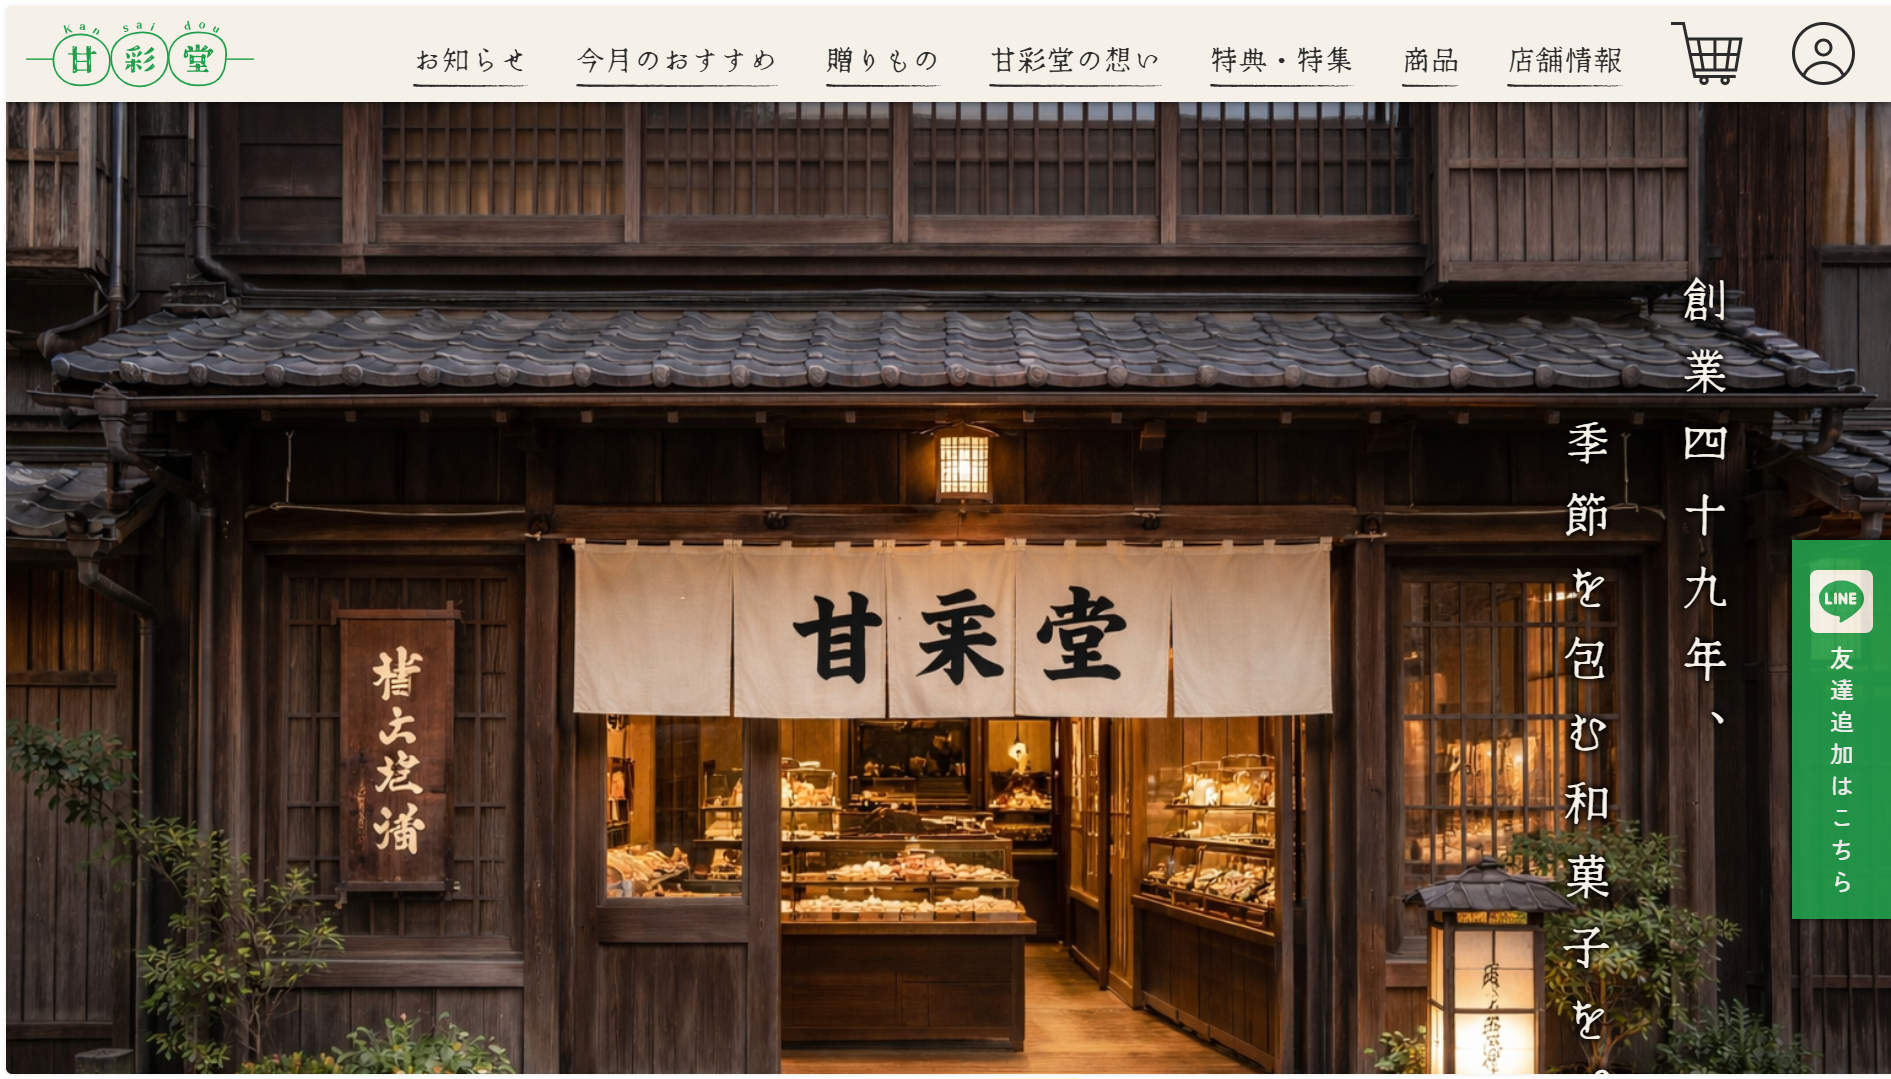
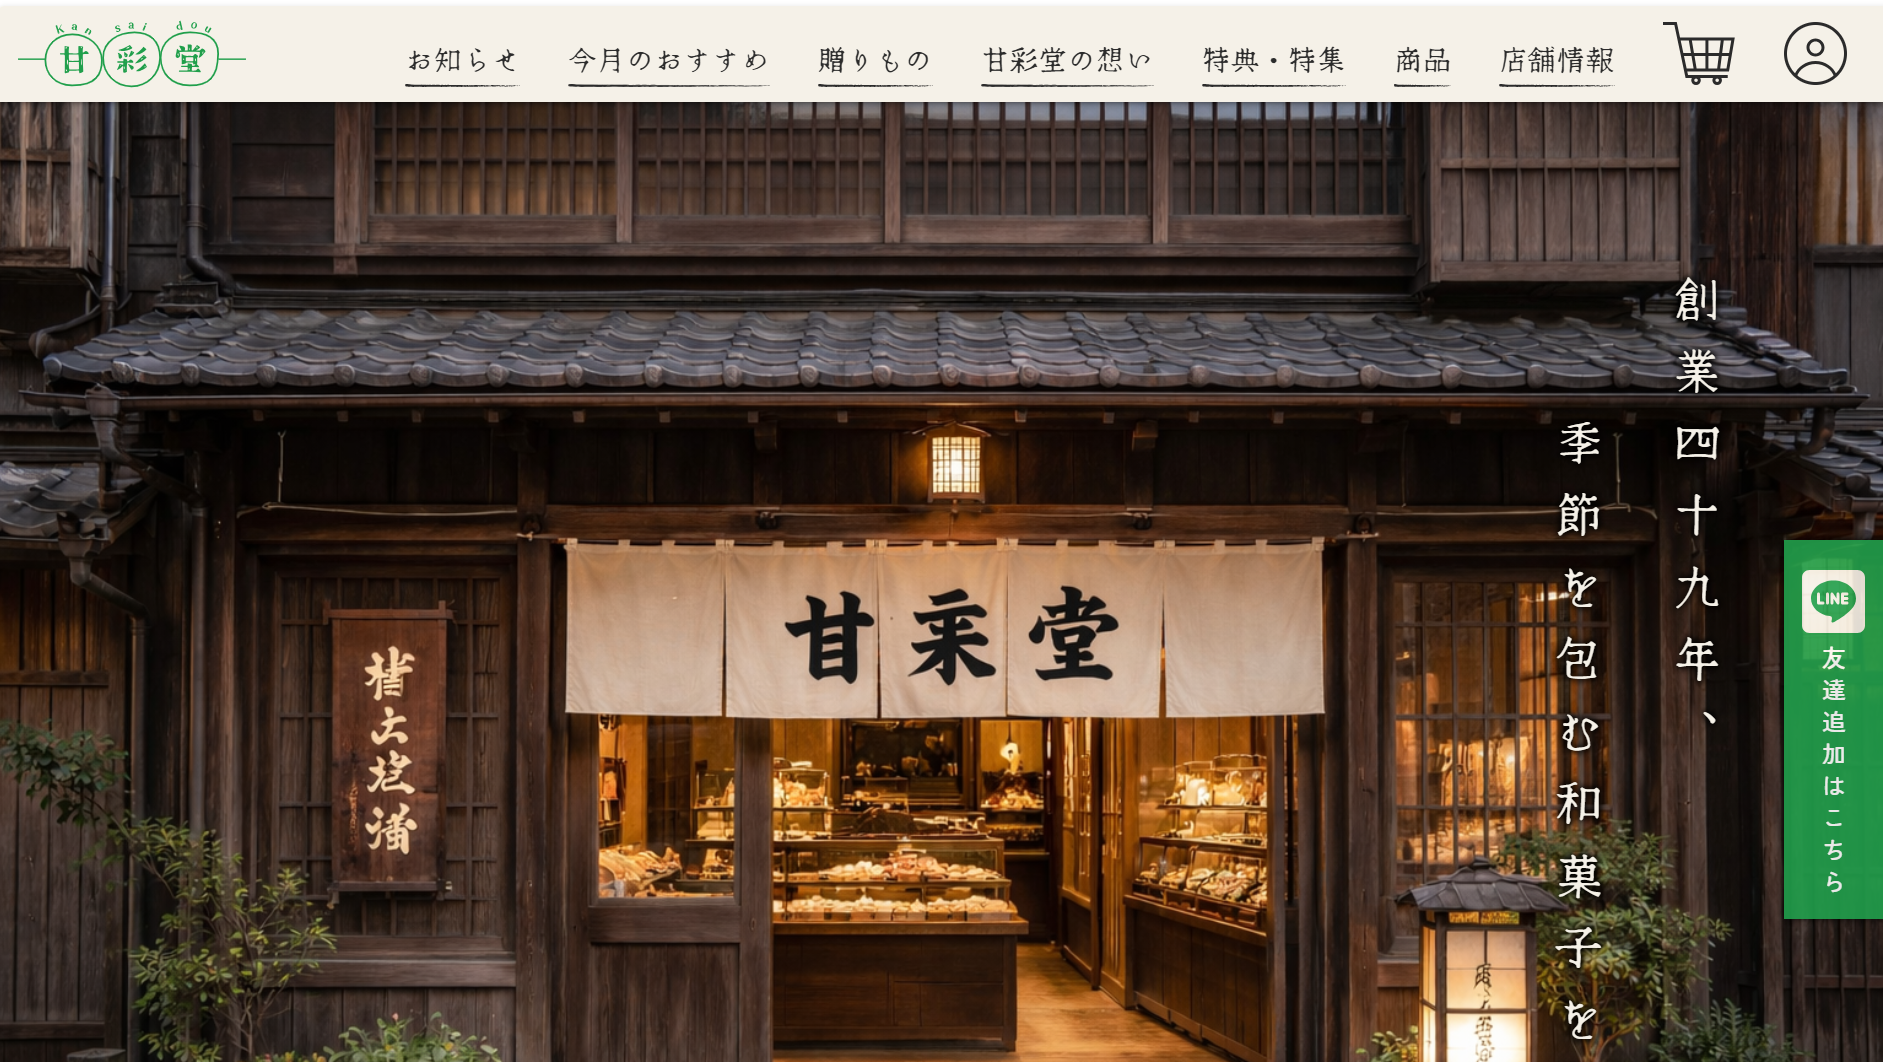
Add work-overview

diff --git a/work-kansaido.html b/work-kansaido.html
@@ -1,0 +1,85 @@
+<!DOCTYPE html>
+<html lang="ja">
+    <head>
+        <meta charset="UTF-8">
+        <meta name="viewport" content="width=device-width, initial-scale=1.0">
+        <title>甘彩堂 | Sasakawa Shun's Portfolio</title>
+        <link rel="stylesheet" href="css/style.css">
+        <link rel="stylesheet" href="css/work-detail.css">
+        <script src="js/main.js"></script>
+        <meta name="description" content="架空の和菓子屋「甘彩堂」のブランドサイト兼ECサイト制作についてまとめた作品詳細ページです。課題設定、デザインの工夫、実装内容、制作を通して学んだことを掲載しています。">
+    </head>
+    <body>
+        <header class="header"><a href="index.html"><span class="header__title">Sasakawa Shun's Portfolio</span></a></header>
+        <main>
+            <section class="hero background--change work-detail-hero" id="hero">
+                <div class="hero__inner">
+                    <div class="hero__body work-detail-hero__body">
+                        <!-- <a class="hero__top--button" href="index.html">
+                            <div class="top--button__inner">
+                                <span class="top--button__text">Top</span>
+                                <img src="images/Arrow 1.svg" alt="">
+                            </div>
+                        </a> -->
+                        <div class="hero__sentence work-detail-hero__sentence">
+                            <h1 class="hero__title work-detail-hero__title">甘彩堂</h1>
+                            <p class="hero__text">石川県金沢市にある架空の和菓子屋を想定した、<br>
+                                ブランドサイト兼ECサイトです。<br>
+                                和菓子屋らしい落ち着きや親しみやすさを大切にしながら、<br>
+                                商品の魅力や店舗の想いが伝わるサイトを目指して制作しました。
+                            </p>
+                            <div class="work-card__tags">
+                                <span class="work-card__tag tag--html">HTML</span>
+                                <span class="work-card__tag tag--css">CSS</span>
+                                <span class="work-card__tag tag--js">JavaScript</span>
+                                <span class="work-card__tag tag--figma">Figma</span>
+                            </div>
+                            <div class="hero__buttons work-detail-hero__buttons">
+                                <a class="button button--reverse work-detail-hero__button" href="https://shun299.github.io/kansaido/" target="_blank" rel="noopener noreferrer">作品のサイトへ</a>
+                                <a class="button button--reverse work-detail-hero__button" href="https://github.com/Shun299/kansaido" target="_blank" rel="noopener noreferrer">GitHubを見る</a>
+                            </div>
+                        </div>
+                        <div class="hero__image work-detail-hero__image"><img src="images/kansaidou.png" alt="甘彩堂のスクリーンショット"></div>
+                    </div>
+                </div>
+            </section>
+            <section class="work-detail work-overview">
+                <div class="section-heading work-detail__section-heading">
+                    <h1 class="work-detail__section-heading--title">課題</h1>
+                    <p>観光地に店舗を構える老舗和菓子屋として、店舗の魅力をオンラインでも伝え、<br>
+                        安定した購入につなげるための課題を整理しました。
+                    </p>
+                </div>
+                <div class="work-overview__inner">
+                    <div class="work-overview__card">
+                        <div class="work-overview__card--icon"><img src="images/earn.svg"></div>
+                        <div class="work-overview__card--description">
+                            <h2 class="work-overview__card--title">観光客に売上が左右されやすい</h2>
+                            <p class="work-overview__card--text">金沢の観光地にある店舗として、来店数が観光シーズンに左右されやすく、<br>
+                                冬場などの閑散期には売上が不安定になる課題を設定しました。
+                            </p>
+                        </div>
+                    </div>
+                    <div class="work-overview__card">
+                        <div class="work-overview__card--icon"><img src="images/question.svg"></div>
+                        <div class="work-overview__card--description">
+                            <h2 class="work-overview__card--title">オンライン販売の魅力が伝わりにくい</h2>
+                            <p class="work-overview__card--text">オンライン販売は行っているものの、商品写真やサイト全体の見せ方が弱く、<br>
+                                ブランドの世界観や商品の魅力が十分に伝わっていない状態を想定しました。
+                            </p>
+                        </div>
+                    </div>
+                    <div class="work-overview__card">
+                        <div class="work-overview__card--icon"><img src="images/smartphone.svg"></div>
+                        <div class="work-overview__card--description">
+                            <h2 class="work-overview__card--title">スマートフォンで選びにくい</h2>
+                            <p class="work-overview__card--text">商品情報や購入導線が整理されていないことで、<br>
+                                スマートフォンから閲覧したユーザーが迷わず商品を選びにくいという課題を設定しました。
+                            </p>
+                        </div>
+                    </div>
+                </div>
+            </section>
+        </main>
+    </body>
+</html>

diff --git a/index.html b/index.html
@@ -3,7 +3,7 @@
     <head>
         <meta charset="UTF-8">
         <meta name="viewport" content="width=device-width, initial-scale=1.0">
-        <title>Sasakawa Shun's Portfolio</title>
+        <title>Sasakawa Shun's Portfolio | Web制作ポートフォリオ</title>
         <link rel="stylesheet" href="css/style.css">
         <script src="js/main.js"></script>
         <meta name="description" content="Sasakawa Shunのポートフォリオサイトです。HTML/CSS/JavaScriptを中心に制作したWebサイトやWebアプリ、スキルセット、プロフィールを掲載しています。">
@@ -22,7 +22,7 @@
                                 ユーザー目線で見やすさや使いやすさを意識した制作を心がけています。
                             </p>
                         </div>
-                        <div class="hero__image"><img src="images/notepc_simple-1.png" alt=""></div>
+                        <div class="hero__image top-hero__image"><img src="images/notepc_simple-1.png" alt=""></div>
                     </div>
                     <div class="hero__buttons">
                         <a href="#works" class="button">制作した作品</a>
@@ -51,7 +51,7 @@
                             <p class="work-card__text">架空の和菓子屋さんを想定したブランドサイトです。和の雰囲気と情報の見やすさを意識して制作しております。
                             </p>
                             <div class="work-card__buttons">
-                                <a class="button work-card__button" href="#">作品の詳細へ</a>
+                                <a class="button work-card__button" href="work-kansaido.html">作品の詳細へ</a>
                                 <a class="button work-card__button button--reverse" href="https://shun299.github.io/kansaido/" target="_blank" rel="noopener noreferrer">作品のサイトへ</a>
                             </div>
                         </div>

diff --git a/css/work-detail.css b/css/work-detail.css
@@ -1,0 +1,101 @@
+.work-detail-hero {
+    padding: 5rem 2.5rem;
+}
+
+.work-detail-hero__body {
+    grid-template-columns: 1fr 600px;
+}
+
+/* .hero__top--button {
+    position: absolute;
+    top: -70px;
+    left: 0;
+}
+
+.top--button__inner {
+    position: relative;
+}
+
+.top--button__text {
+    position: absolute;
+    top: 0;
+    right: 0;
+} */
+
+.work-detail-hero__image {
+    width: 600px;
+    overflow: hidden;
+    border-radius: 25px;
+    border: 2px solid var(--color--text);
+}
+
+.work-detail-hero__image img {
+    width: 100%;
+}
+
+.work-detail-hero__sentence {
+    display: grid;
+    gap: 2rem;
+}
+
+.work-detail-hero__title {
+    margin: 0;
+}
+
+.work-detail-hero__buttons {
+    margin-top: 2rem;
+    gap: 2rem;
+}
+
+.work-detail-hero__button {
+    min-width: 250px;
+    min-height: 55px;
+}
+
+/* 課題セクション */
+.work-detail__section-heading {
+    position: relative;
+    width: fit-content;
+    grid-template-columns: auto auto;
+    align-items: center;
+    max-width: 100%;
+    margin: 0 auto;
+    gap: 2.5rem;
+}
+
+.work-detail__section-heading::after {
+    content: "";
+    position: absolute;
+    height: 2px;
+    width: calc(100% + 16px);
+    background-color: var(--color--button);
+    bottom: -10px;
+    left: -8px;
+}
+
+.work-detail__section-heading--title {
+    font-size: 2rem;
+}
+
+.work-overview__inner {
+    display: grid;
+    margin: 6rem 6rem 0;
+    gap: 2.5rem;
+    place-content: center;
+}
+
+.work-overview__card {
+    display: grid;
+    grid-template-columns: 100px 1fr;
+    gap: 2rem;
+    align-items: center;
+}
+
+.work-overview__card--description {
+    display: grid;
+    gap: .5rem;
+}
+
+.work-overview__card--title {
+    font-size: 1.5rem;
+}

diff --git a/css/style.css b/css/style.css
@@ -110,7 +110,7 @@ section {
     z-index: 1;
 }
 
-.hero__image::after {
+.top-hero__image::after {
     content: "";
     position: absolute;
     width: 400px;
@@ -217,8 +217,13 @@ section {
     box-shadow: 0 8px 16px rgba(0, 0, 0, 0.2);
 }
 
-.work-card__image img {
+.work-card__image {
     border-radius: 15px;
+    overflow: hidden;
+}
+
+.work-card__image img {
+    width: 100%;
 }
 
 .work-card__body {
